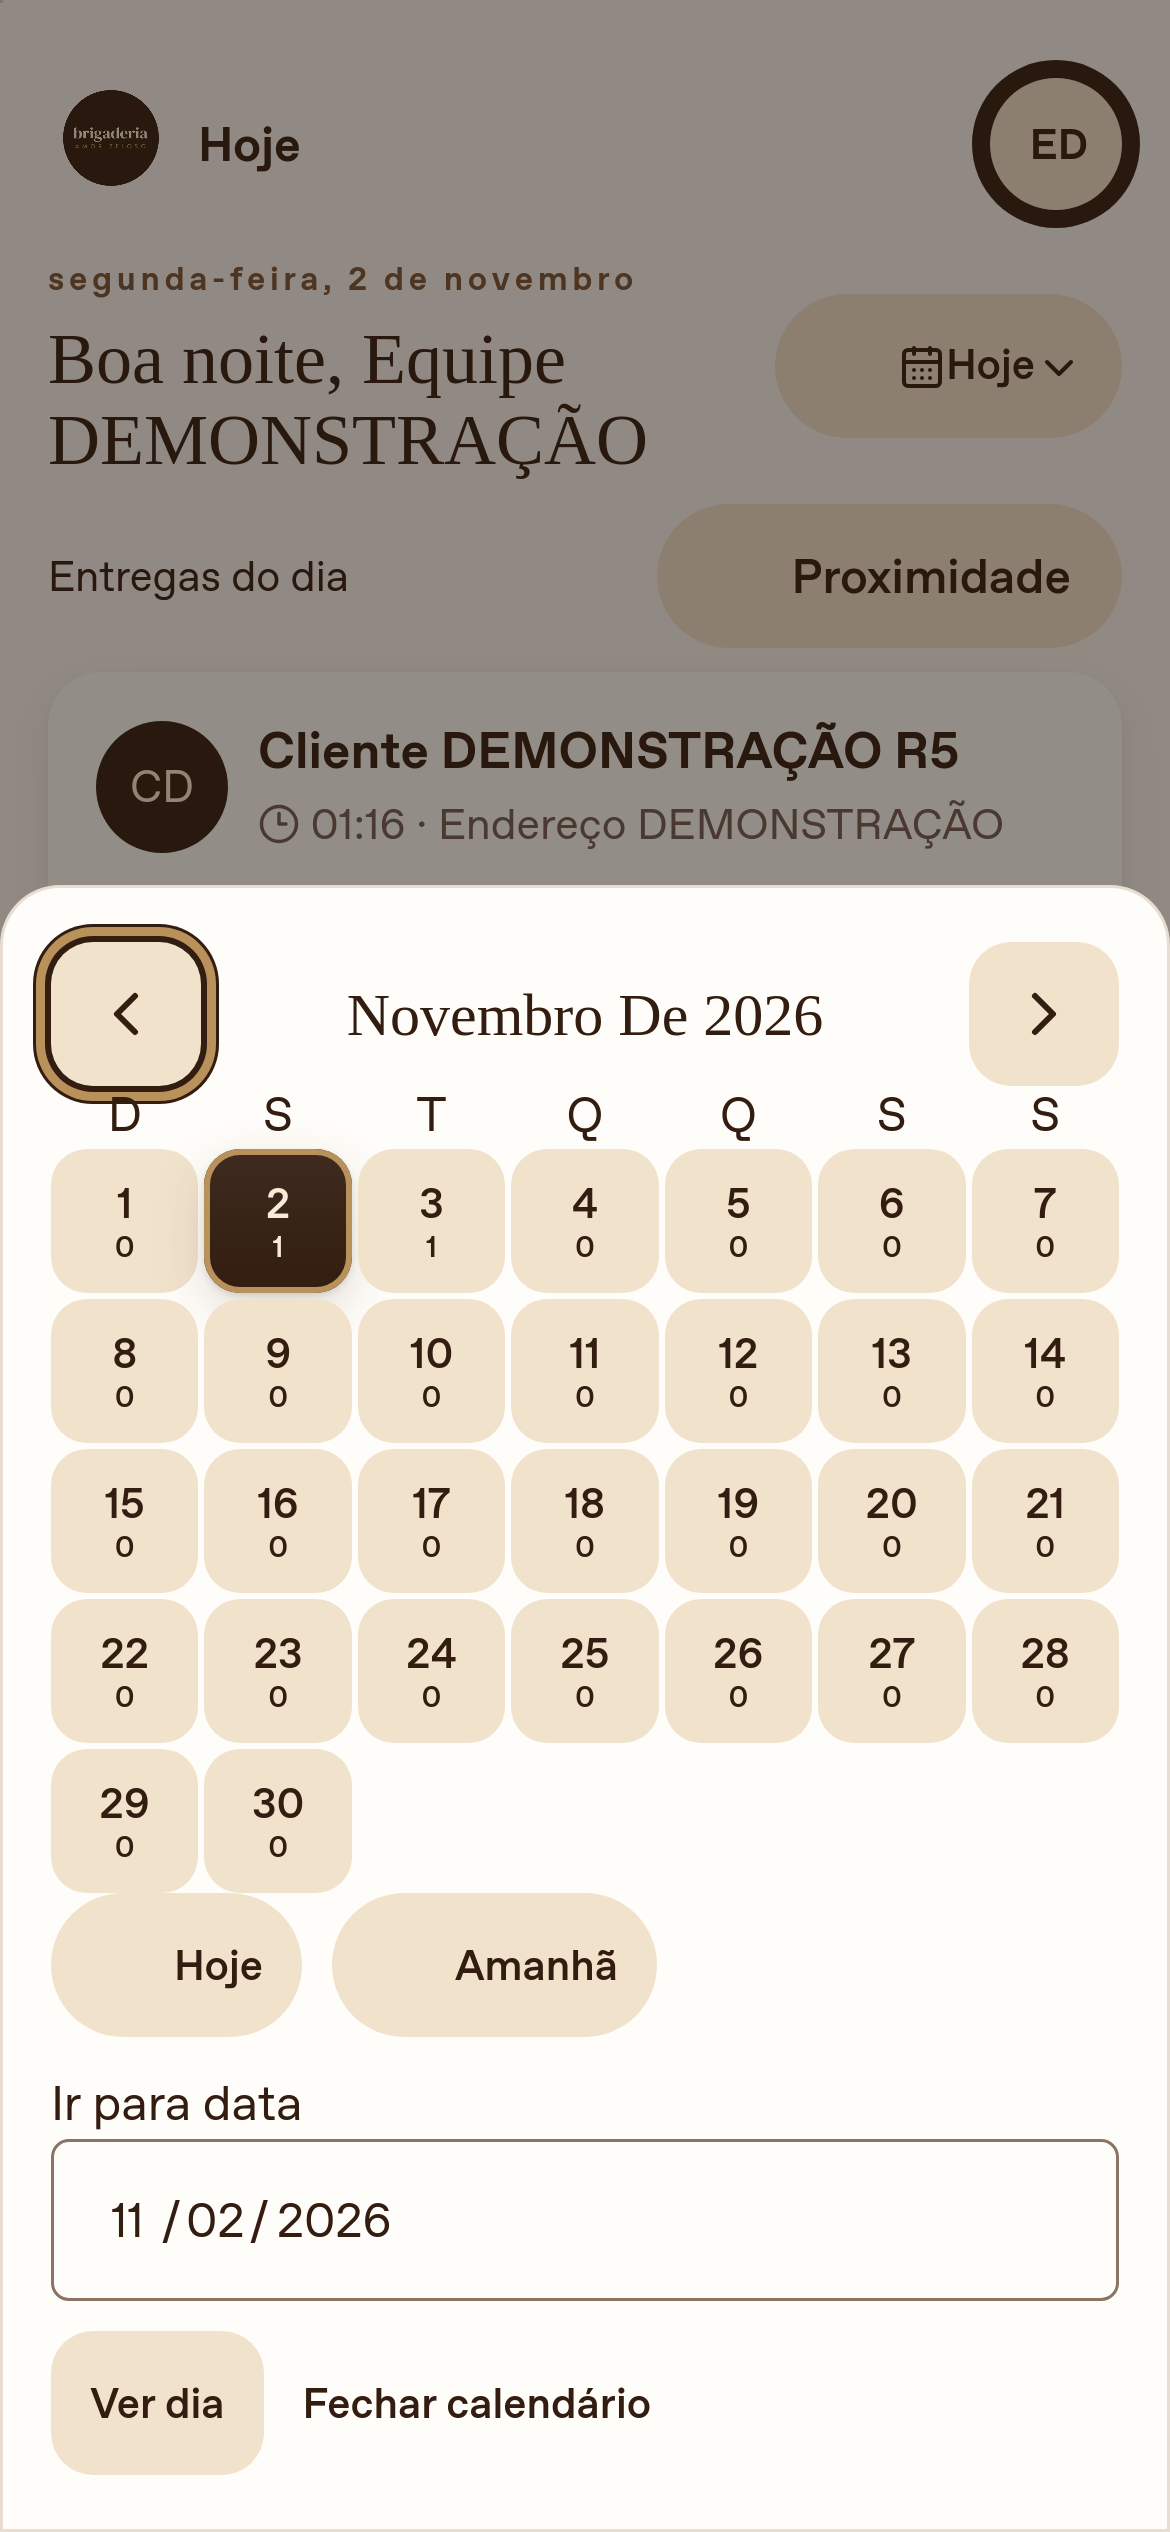
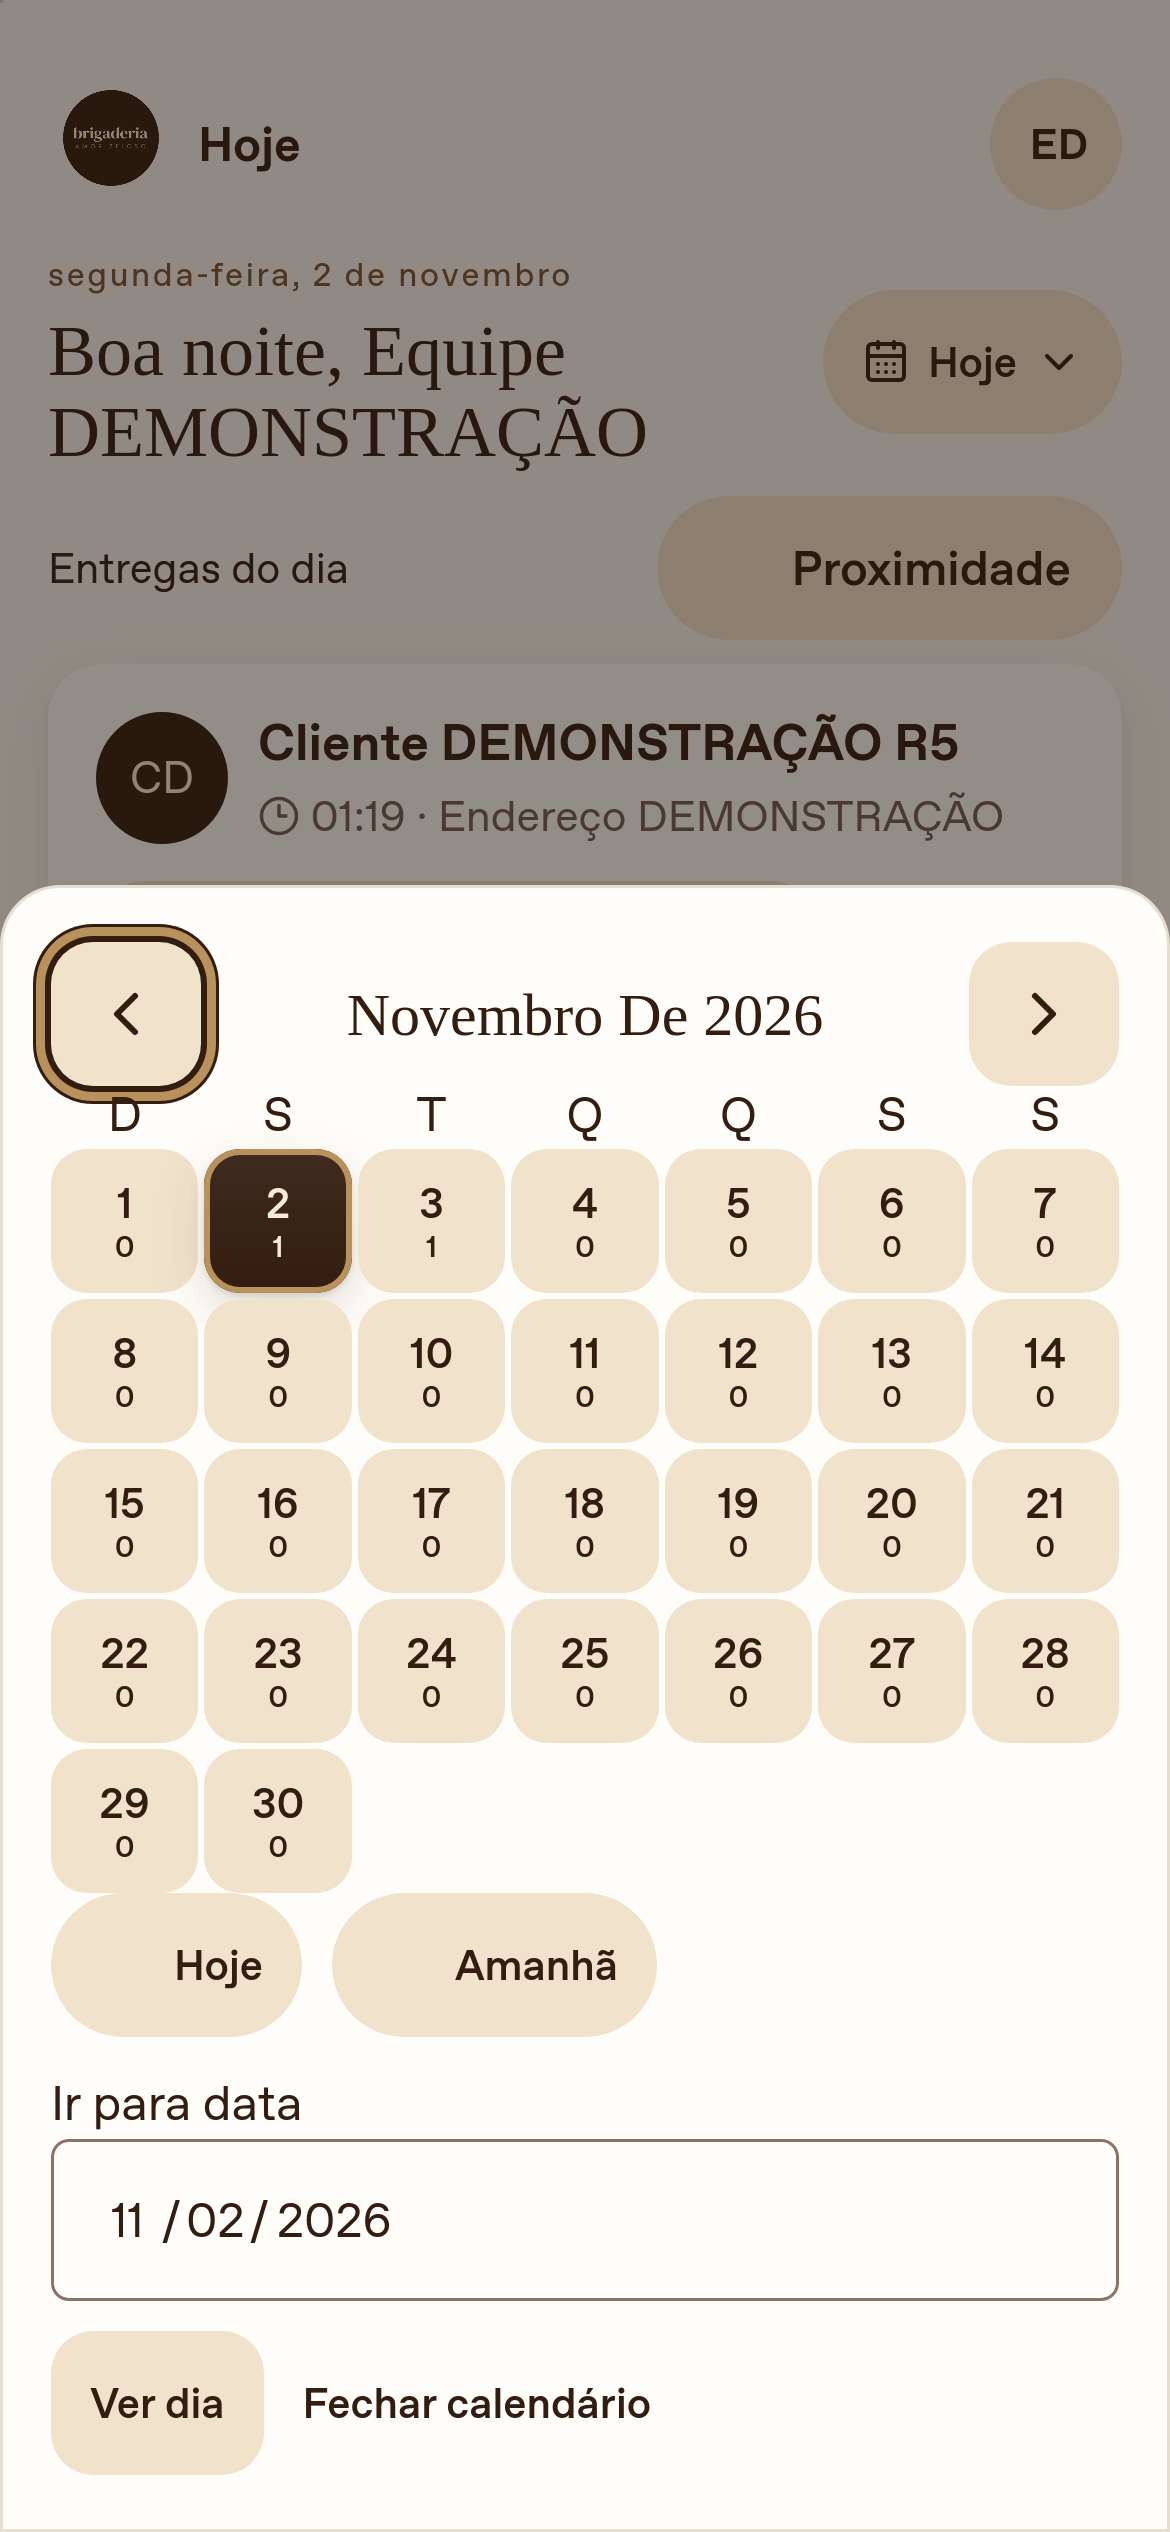
feat: replace small report/calendar selects with chips (R5-6)

diff --git a/src/features/p1/Reports.tsx b/src/features/p1/Reports.tsx
@@ -1,3 +1,4 @@
+import { ChoiceChips } from '../../components/ChoiceChips';
 import { Button } from '../../components/Button';
 import { useState } from 'react';
 import { useRemote, Failure, localDay } from '../operations/common';
@@ -80,19 +81,18 @@ export function Reports() {
             }}
           />
         </label>
-        <label>
-          Condição das vendas
-          <select
-            value={condition}
-            onChange={(e) => setCondition(e.target.value)}
-          >
-            <option value="all">Todas</option>
-            <option value="unset">A definir</option>
-            <option value="advance">Adiantado</option>
-            <option value="delivery">Na entrega</option>
-            <option value="credit">A prazo</option>
-          </select>
-        </label>
+        <ChoiceChips
+          label="Condição das vendas"
+          value={condition}
+          onChange={setCondition}
+          options={[
+            ['all', 'Todas'],
+            ['unset', 'A definir'],
+            ['advance', 'Adiantado'],
+            ['delivery', 'Na entrega'],
+            ['credit', 'A prazo'],
+          ]}
+        />
         <label>
           Cliente do relatório
           <select

diff --git a/tests/e2e/planning.spec.js b/tests/e2e/planning.spec.js
@@ -4,7 +4,7 @@ import { runtime } from '../helpers/runtime.mjs';
 import { demoProject } from '../helpers/demo-project.mjs';
 test('agenda privada, ICS e lembrete visível/concluído no Hoje', async ({
   browser,
-}) => {
+}, info) => {
   const t = await runtime({
       browserHTTP: true,
       financeEnabled: true,
@@ -40,6 +40,18 @@ test('agenda privada, ICS e lembrete visível/concluído no Hoje', async ({
         exact: true,
       }),
     ).toBeVisible();
+    const events = page.getByRole('group', { name: 'Eventos', exact: true });
+    await events
+      .getByRole('button', { name: 'Lembretes', exact: true })
+      .click();
+    await expect(
+      events.getByRole('button', { name: 'Lembretes', exact: true }),
+    ).toHaveAttribute('aria-pressed', 'true');
+    await events.getByRole('button', { name: 'Todos', exact: true }).click();
+    if (process.env.R8_CAPTURE === '1' && info.project.name === 'webkit-mobile')
+      await page.screenshot({
+        path: 'docs/colaboracao/capturas/r8-depois-agenda.png',
+      });
     const downloadEvent = page.waitForEvent('download');
     await page.getByRole('button', { name: 'Exportar agenda ICS' }).click();
     const download = await downloadEvent;

diff --git a/src/features/p1/Agenda.tsx b/src/features/p1/Agenda.tsx
@@ -1,3 +1,4 @@
+import { ChoiceChips } from '../../components/ChoiceChips';
 import { Button } from '../../components/Button';
 import { useState } from 'react';
 
@@ -58,17 +59,19 @@ export function Agenda() {
           </Button>
         ))}
       </div>
-      <label>
-        Eventos
-        <select value={kind} onChange={(e) => setKind(e.target.value)}>
-          <option value="">Todos</option>
-          <option value="delivery">Pedidos/entregas</option>
-          <option value="production">Produção planejada</option>
-          <option value="closing">Fechamentos</option>
-          <option value="due">Vencimentos</option>
-          <option value="reminder">Lembretes</option>
-        </select>
-      </label>
+      <ChoiceChips
+        label="Eventos"
+        value={kind}
+        onChange={setKind}
+        options={[
+          ['', 'Todos'],
+          ['delivery', 'Pedidos/entregas'],
+          ['production', 'Produção planejada'],
+          ['closing', 'Fechamentos'],
+          ['due', 'Vencimentos'],
+          ['reminder', 'Lembretes'],
+        ]}
+      />
       <p>
         {civilDate(from)} a {civilDate(to)}
       </p>

diff --git a/tests/e2e/costs.spec.js b/tests/e2e/costs.spec.js
@@ -27,6 +27,23 @@ test('relatórios CSV, despesa/estorno, ficha/preço e compras privadas', async 
     await expect(
       page.getByRole('heading', { name: 'Relatórios', exact: true }),
     ).toBeVisible();
+    const conditions = page.getByRole('group', {
+      name: 'Condição das vendas',
+      exact: true,
+    });
+    await conditions
+      .getByRole('button', { name: 'Na entrega', exact: true })
+      .click();
+    await expect(
+      conditions.getByRole('button', { name: 'Na entrega', exact: true }),
+    ).toHaveAttribute('aria-pressed', 'true');
+    await conditions
+      .getByRole('button', { name: 'Todas', exact: true })
+      .click();
+    if (process.env.R8_CAPTURE === '1' && info.project.name === 'webkit-mobile')
+      await page.screenshot({
+        path: 'docs/colaboracao/capturas/r8-depois-relatorios.png',
+      });
     const event = page.waitForEvent('download');
     await page.getByRole('button', { name: 'Exportar relatório CSV' }).click();
     expect((await event).suggestedFilename()).toBe('relatorio-orders.csv');

diff --git a/src/components/ChoiceChips.tsx b/src/components/ChoiceChips.tsx
@@ -1,0 +1,31 @@
+import { Button } from './Button';
+export function ChoiceChips({
+  label,
+  value,
+  onChange,
+  options,
+}: {
+  label: string;
+  value: string;
+  onChange: (value: string) => void;
+  options: readonly (readonly [string, string])[];
+}) {
+  return (
+    <fieldset className="choice-chips">
+      <legend>{label}</legend>
+      <div className="chips">
+        {options.map(([id, text]) => (
+          <Button
+            key={id}
+            type="button"
+            variant="chip"
+            aria-pressed={value === id}
+            onClick={() => onChange(id)}
+          >
+            {text}
+          </Button>
+        ))}
+      </div>
+    </fieldset>
+  );
+}

diff --git a/src/styles.css b/src/styles.css
@@ -2029,3 +2029,34 @@ details[open] > .disclosure-summary > .disclosure-chevron {
   font-size: 12px;
   color: var(--muted);
 }
+.choice-chips {
+  border: 0;
+  padding: 0;
+  margin: 12px 0;
+  min-width: 0;
+}
+.choice-chips legend {
+  font-weight: 600;
+  margin-bottom: 8px;
+}
+.today-greeting > div {
+  flex: 1;
+  min-width: 0;
+}
+.today-greeting .eyebrow {
+  letter-spacing: 0.08em;
+  font-weight: 500;
+  line-height: 1.4;
+}
+.workday-calendar-trigger {
+  border-radius: 999px;
+  flex-shrink: 0;
+}
+.workday-calendar-trigger .az-button-label {
+  display: inline-flex;
+  align-items: center;
+  gap: 6px;
+}
+.delivery-icon-row .az-button-label {
+  white-space: nowrap;
+}

diff --git a/src/features/operations/DayCalendar.tsx b/src/features/operations/DayCalendar.tsx
@@ -150,7 +150,8 @@ export function DayCalendar({
     <>
       <Button
         ref={trigger}
-        variant="chip"
+        variant="tonal"
+        className="workday-calendar-trigger"
         aria-label="Escolher dia"
         onClick={() => setOpen(true)}
       >

diff --git a/docs/colaboracao/CODEX_PARA_CLAUDE.md b/docs/colaboracao/CODEX_PARA_CLAUDE.md
@@ -119,6 +119,8 @@ Limitação: validação em navegador simulado, aparelho físico pendente.
 
 ## Histórico
 
+- **2026-11-02 — R5-6:** ChoiceChips compartilhado aplicado à condição das vendas e aos eventos da agenda (cinco categorias mais Todos). Busca/lista de clientes e exportação com seis formatos preservadas. Build/tipagem/lint e seis E2E de CSV/ICS/relatórios/agenda aprovados. CI dos commits R8-6/7 revelou data quebrando em duas linhas por diferenças de fonte: chip do calendário deixou de reservar check de seleção e ganhou espaçamento explícito, data com largura flexível e WhatsApp sem quebra. Seis E2E de espaço/calendário passaram localmente com limite 200 preservado; nova CI será conferida. Próximo R5-7.
+
 - **2026-11-02 — R5-5:** Financeiro com quatro cartões tocáveis em grade 2×2: recebido hoje, a receber, vencido e vence esta semana. Rótulos pequenos, valores em destaque e navegação/filtros preservados; sem alterar cálculo financeiro. Build/tipagem e três E2E com medida de linhas/larguras e capturas aprovados. Próximo R5-6.
 
 - **2026-11-02 — R8-7:** Revisar pedido com seções Quando/Como/Quem leva/Pagamento em caixa alta, nomes de exibição/iniciais nos chips de entregador e atalhos Hoje/Amanhã/dia do pedido padrão antes do seletor nativo. Hora existente preservada nos atalhos e a do modelo restaurada ao escolher o padrão. Sem inventar horário comercial; sem horário prévio, o atalho usa a hora atual de Fortaleza. Fotos pessoais dependem da R6-5, sem imagens fictícias na UI real. Build/tipagem/lint e seis E2E de pedido/foco/revisão aprovados. Próximo R5-5.
@@ -210,7 +212,7 @@ Arquivos/aceite: Today, DeliveryActions, Button e API Today (R8-1: cartão compa
 | R8-6          | Entregue (limites e testes no histórico).                                                         |
 | R8-7          | Interface entregue; fotos pessoais dependem de R6-5.                                              |
 | R5-5          | Entregue; testes/limites no histórico.                                                            |
-| R5-6          | Pendente.                                                                                         |
+| R5-6          | Entregue; testes/limites no histórico.                                                            |
 | R5-7          | Pendente.                                                                                         |
 | R5-8          | Pendente.                                                                                         |
 | R5-9          | Pendente.                                                                                         |
